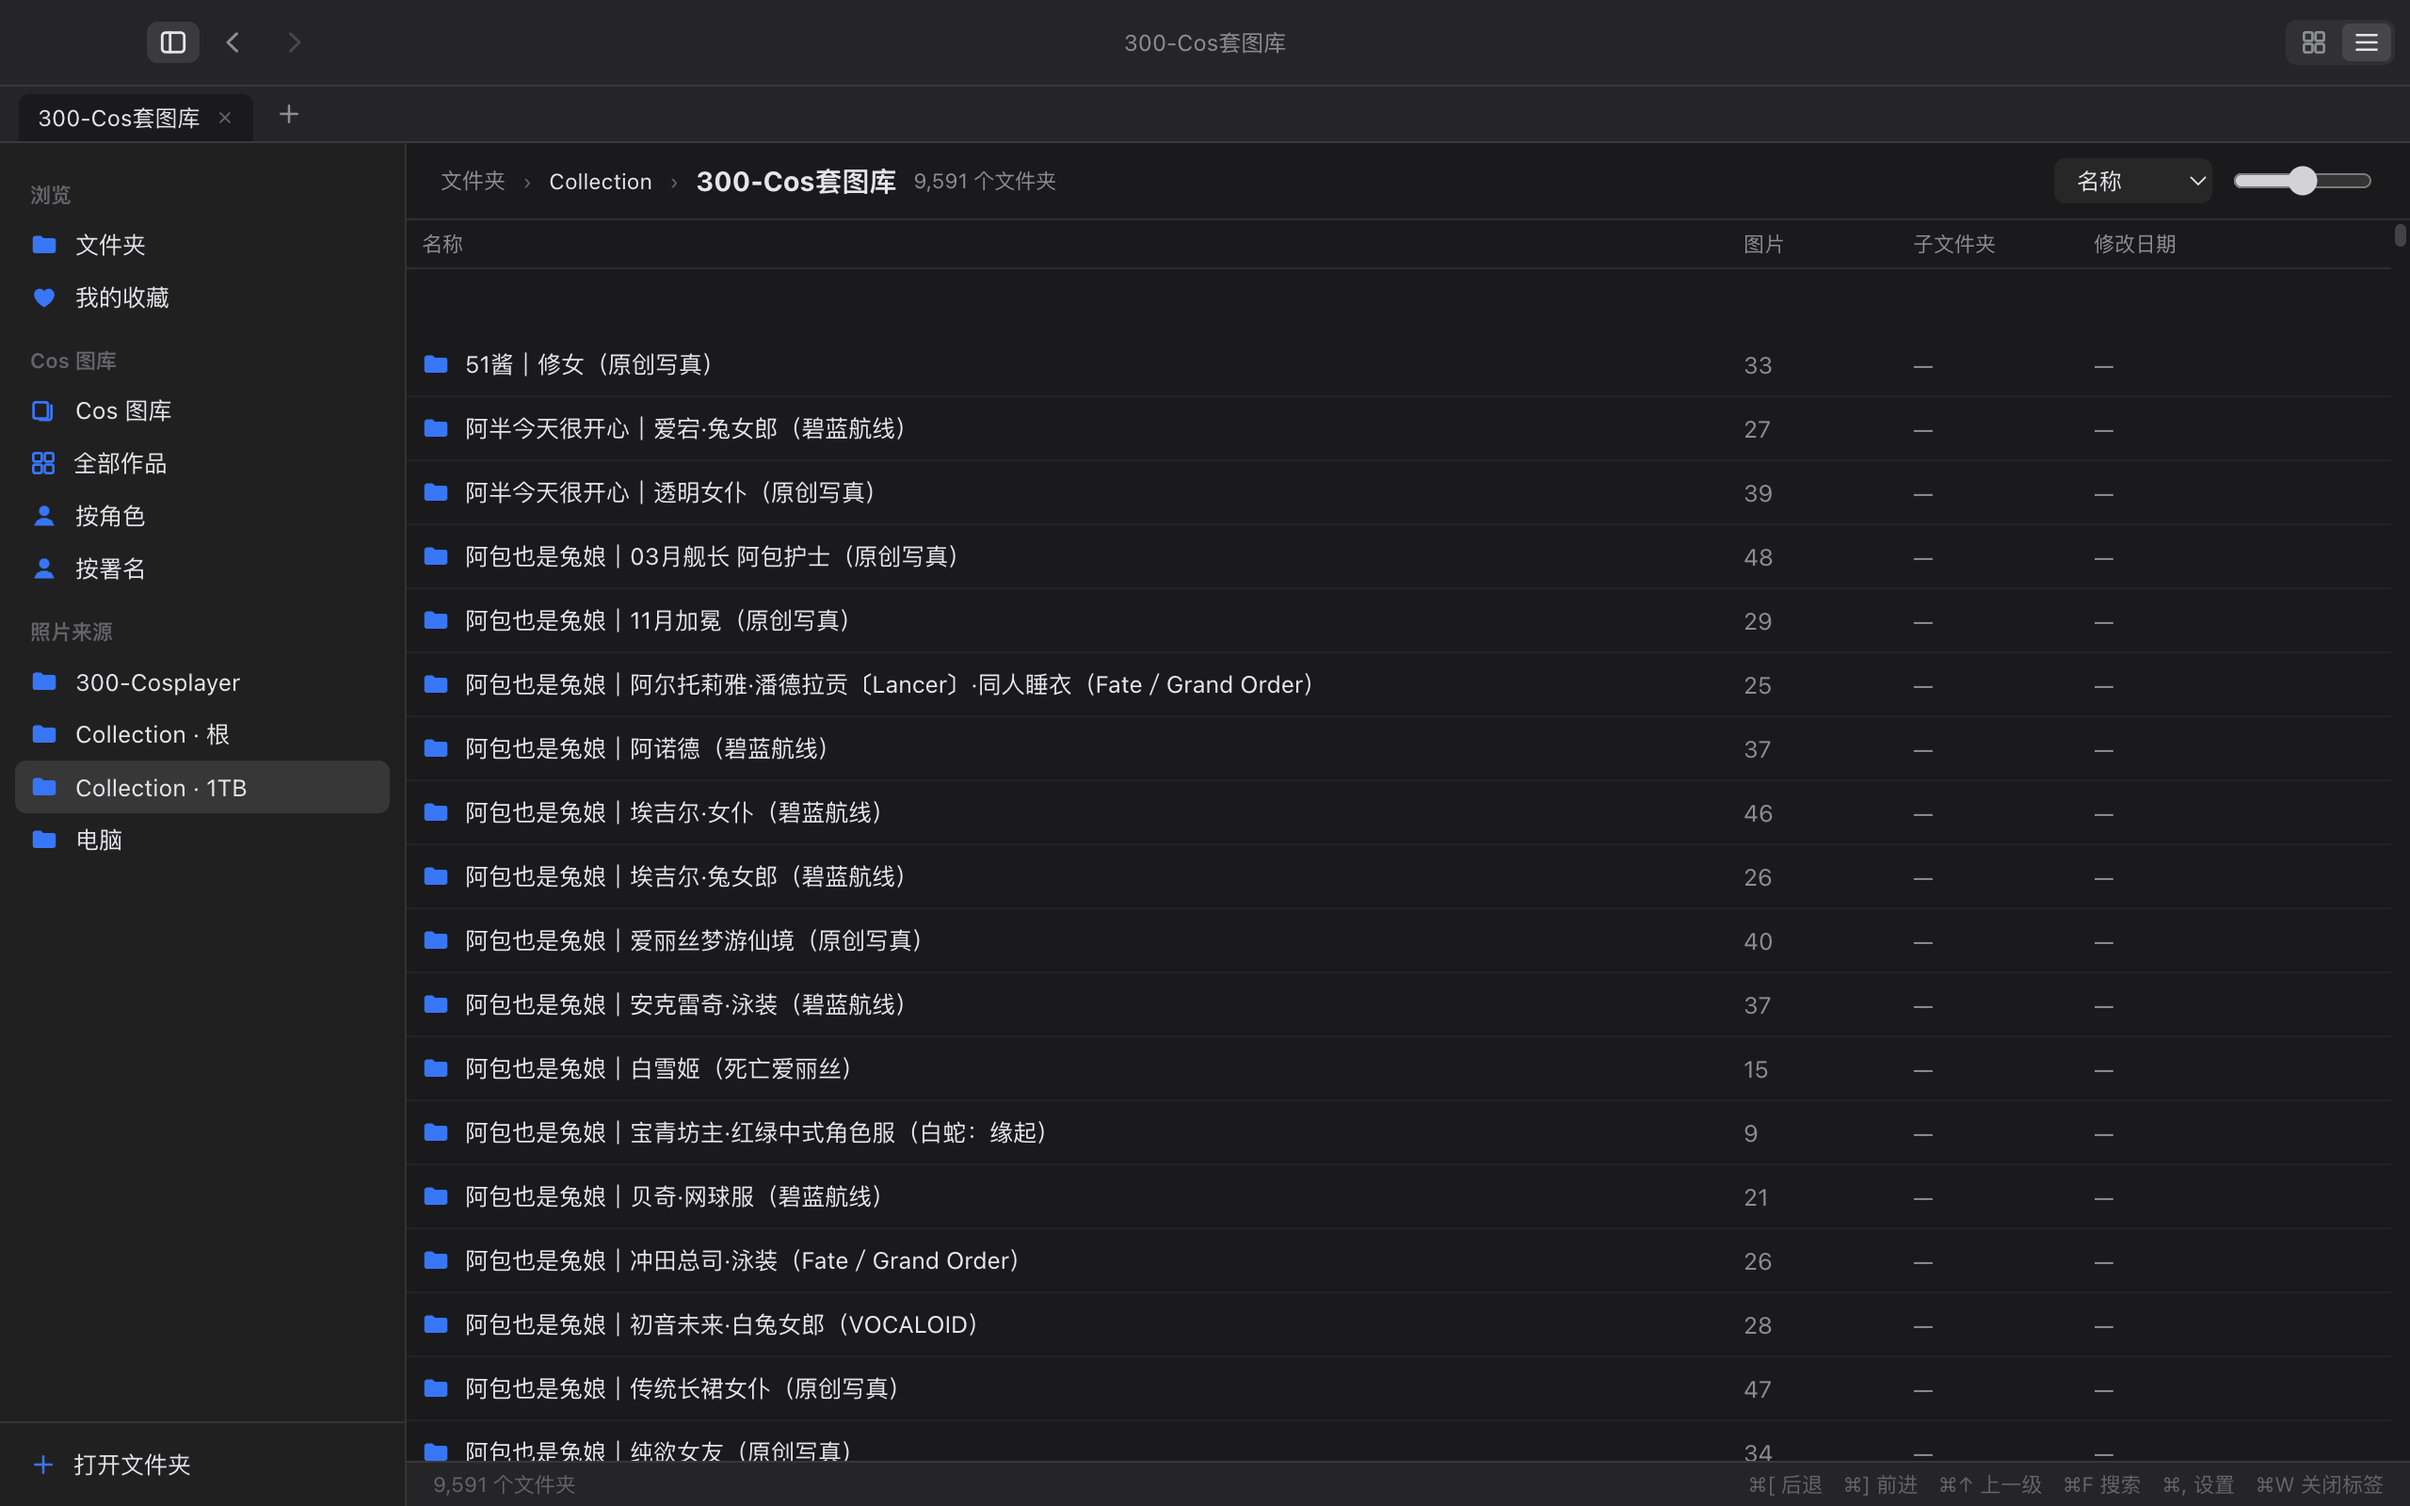
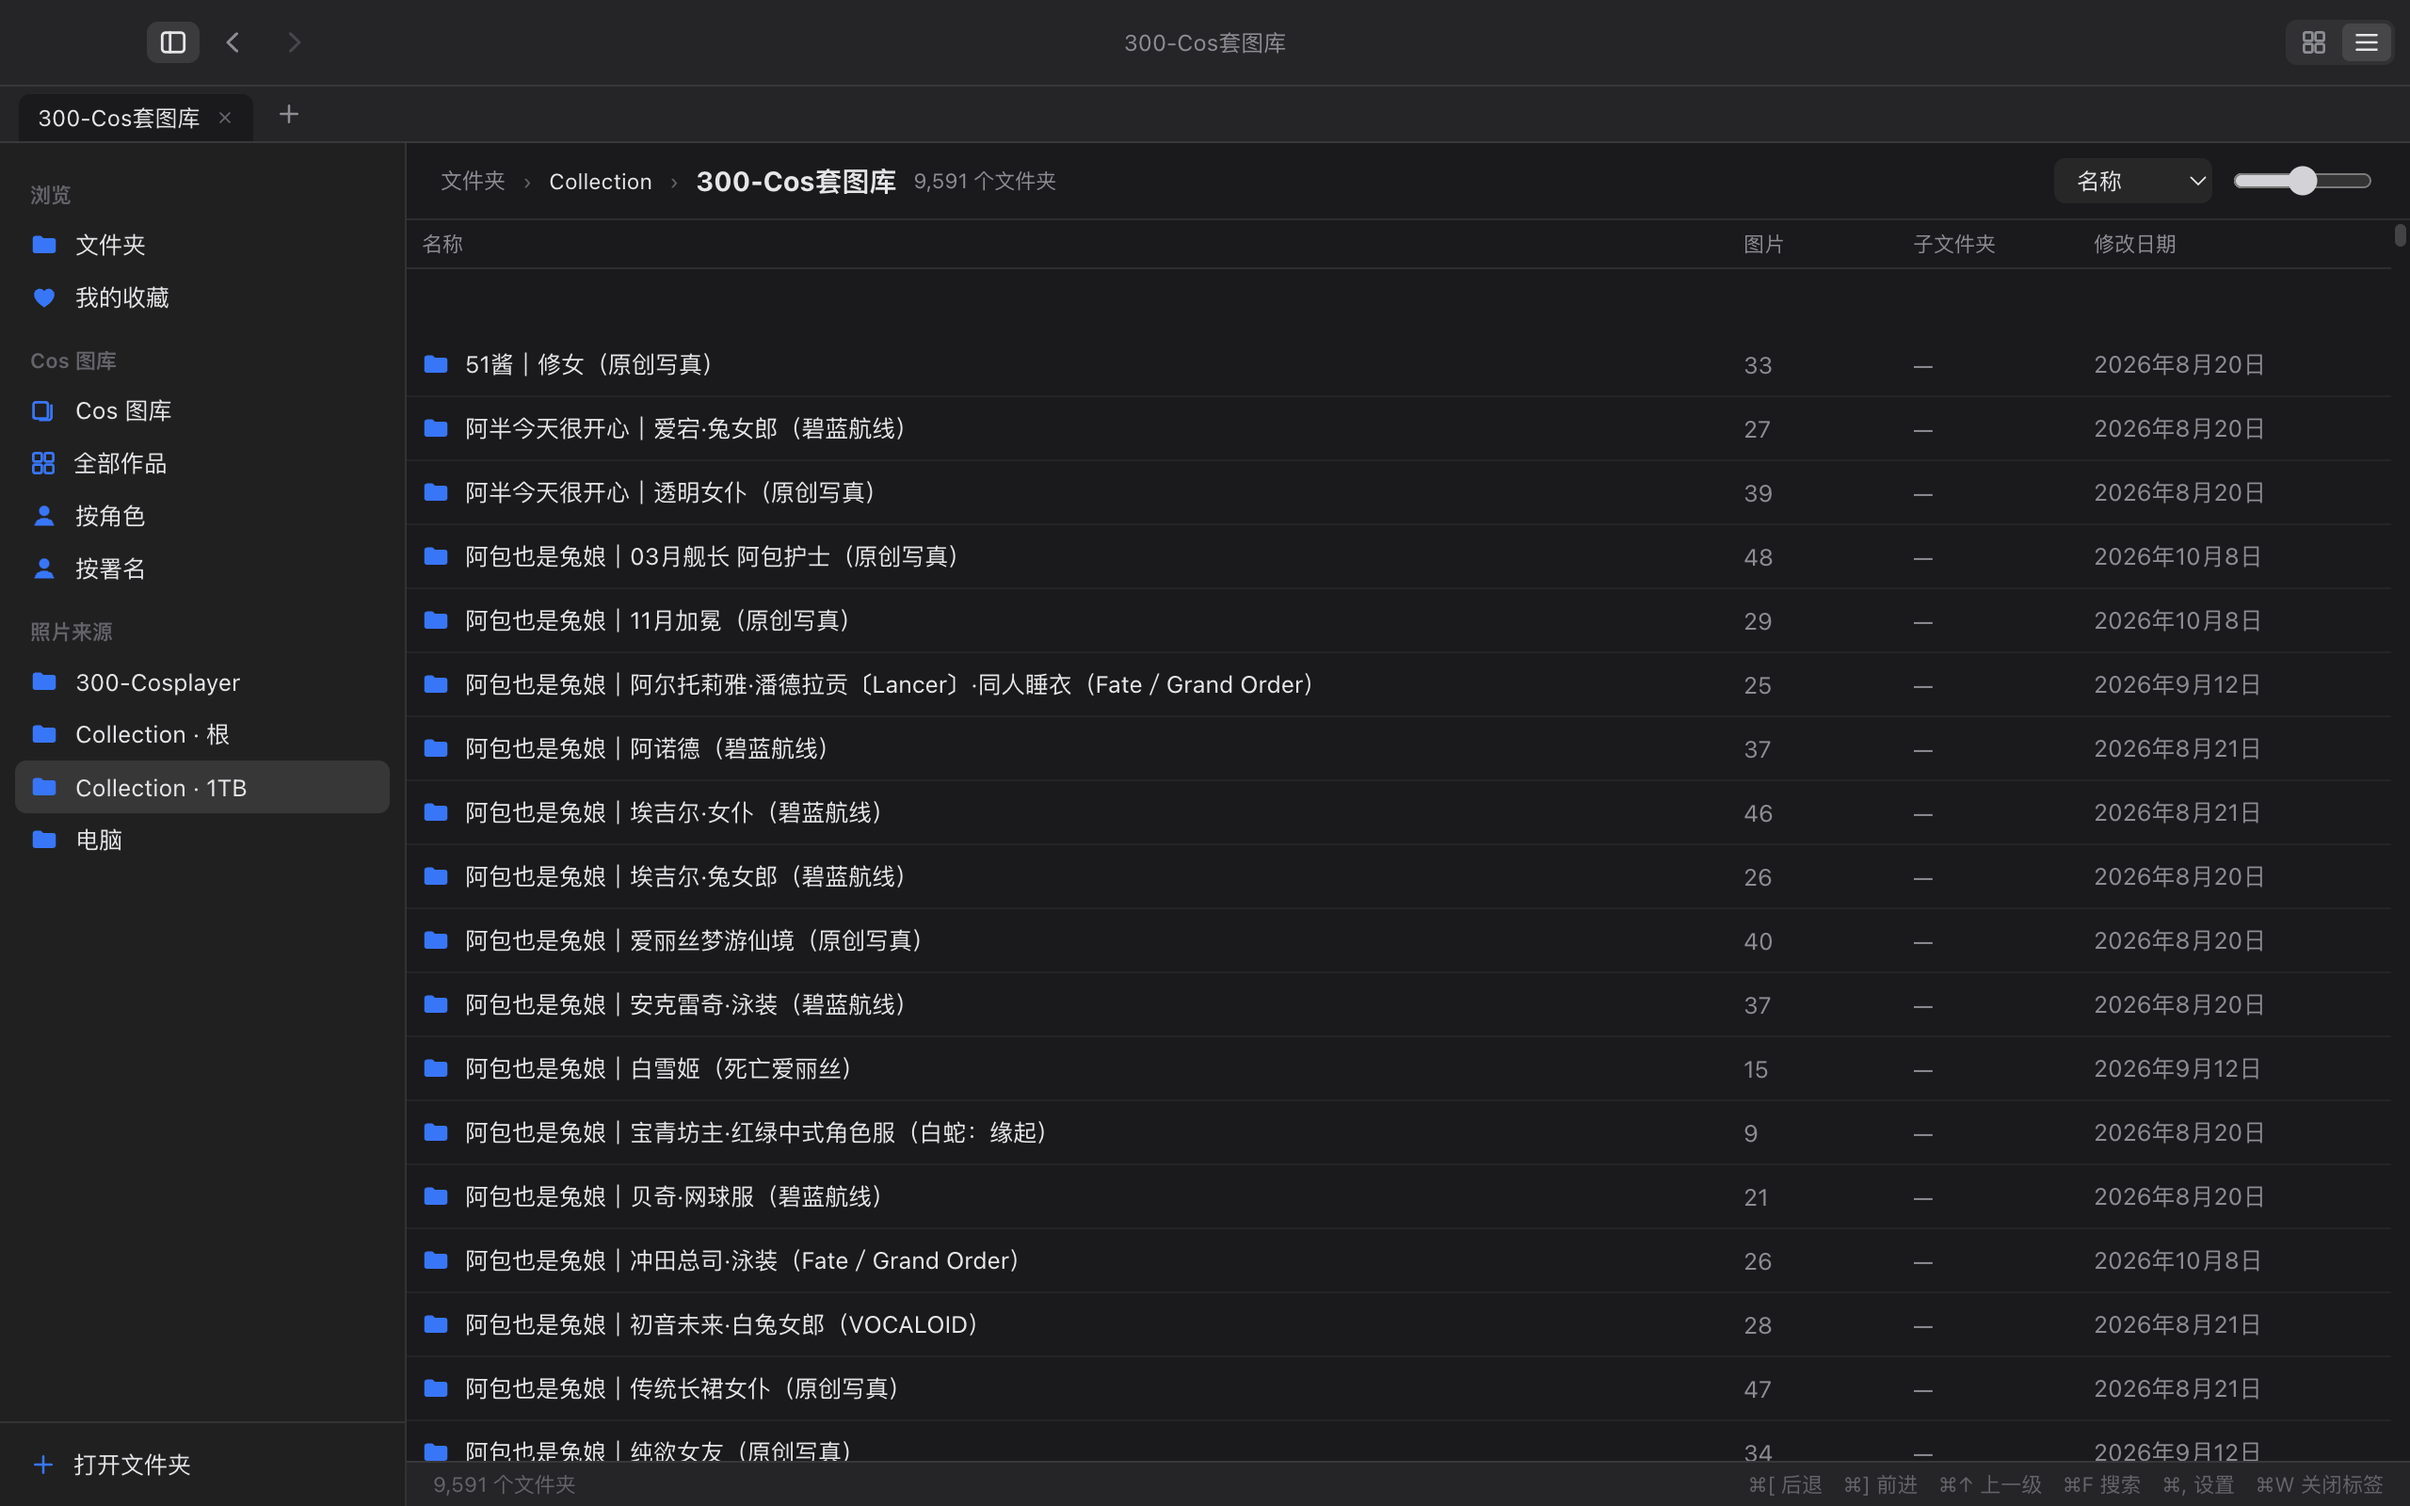
feat(ui): S1 文件夹快照补 mtime，卡片与列表显示日期

diff --git a/src/common/contracts/directory-contract-v1.js b/src/common/contracts/directory-contract-v1.js
@@ -27,7 +27,7 @@ const CHILD_COMPLETENESS_FIELDS = new Set(['directMedia', 'children']);
 const FACT_FIELDS = new Set(['directMediaCount', 'childDirectoryCount']);
 const MEDIA_FIELDS = new Set(['relativePath', 'name', 'size', 'mtimeMs']);
 const CHILD_FIELDS = new Set([
-  'ref', 'name', 'status', 'completeness', 'facts', 'approximate'
+  'ref', 'name', 'status', 'completeness', 'facts', 'approximate', 'mtimeMs'
 ]);
 const APPROXIMATE_FIELDS = new Set([
   'coverSamples', 'hasDescendantMedia', 'observedAt', 'truncated'
@@ -549,6 +549,10 @@ function validateMediaAt(value, path, rootRelativePath, issues) {
     }
   }
 
+  if (hasOwn(record, 'mtimeMs')) {
+    validateRequiredFiniteNumber(record, 'mtimeMs', path, issues);
+  }
+
   let nameValid = false;
   if (!hasOwn(record, 'name')) {
     addIssue(issues, `${path}.name`, 'required', 'name is required');
@@ -587,6 +591,10 @@ function validateChildAt(value, path, rootRef, issues) {
       'invariant',
       'Child ref must be exactly one segment below the snapshot'
     );
+  }
+
+  if (hasOwn(record, 'mtimeMs')) {
+    validateRequiredFiniteNumber(record, 'mtimeMs', path, issues);
   }
 
   let nameValid = false;

diff --git a/src/main/services/DirectorySnapshotService.js b/src/main/services/DirectorySnapshotService.js
@@ -194,7 +194,13 @@ function createDirectorySnapshotService({
       }
 
       if (stats.isDirectory()) {
-        return { kind: 'directory', name, relativePath, absolutePath };
+        return {
+          kind: 'directory',
+          name,
+          relativePath,
+          absolutePath,
+          mtimeMs: Number.isFinite(stats.mtimeMs) ? stats.mtimeMs : null
+        };
       }
       if (!stats.isFile() || !isSupportedMedia(name)) {
         return { kind: 'other' };
@@ -218,6 +224,7 @@ function createDirectorySnapshotService({
           status,
           completeness: unavailableCompleteness,
           facts,
+          ...(Number.isFinite(candidate.mtimeMs) ? { mtimeMs: candidate.mtimeMs } : {}),
           approximate: createApproximate(
             status,
             unavailableCompleteness,
@@ -256,6 +263,7 @@ function createDirectorySnapshotService({
         status: 'ready',
         completeness,
         facts,
+        ...(Number.isFinite(candidate.mtimeMs) ? { mtimeMs: candidate.mtimeMs } : {}),
         approximate: createApproximate('ready', completeness, facts, coverSamples, observedAt)
       };
     }

diff --git a/src/ui/features/folder/GridCard.jsx b/src/ui/features/folder/GridCard.jsx
@@ -32,9 +32,10 @@ function Cover({ item, rootPath }) {
 /** 网格卡片：文件夹与图片共用同一套文字层级。 */
 export default function GridCard({ item, rootPath, width, coverHeight, selected, onClick }) {
   const isFolder = item.kind === 'folder';
-  const meta = isFolder
-    ? (item.childCount > 0 ? `${item.childCount} 个子文件夹 · ${item.imageCount} 张` : `${item.imageCount} 张`)
-    : `${Math.round(item.size / 1024)} KB · ${formatDate(item.mtimeMs)}`;
+  const folderMeta = item.childCount > 0
+    ? `${item.childCount} 个子文件夹 · ${item.imageCount} 张`
+    : `${item.imageCount} 张${item.mtimeMs ? ` · ${formatDate(item.mtimeMs)}` : ''}`;
+  const meta = isFolder ? folderMeta : `${Math.round(item.size / 1024)} KB · ${formatDate(item.mtimeMs)}`;
   return (
     <article
       className={`grid-card${selected ? ' selected' : ''}`}

diff --git a/src/ui/data/directory.js b/src/ui/data/directory.js
@@ -27,6 +27,7 @@ export function toFolderItems(snapshot) {
     status: child.status,
     imageCount: child.facts?.directMediaCount ?? 0,
     childCount: child.facts?.childDirectoryCount ?? 0,
+    mtimeMs: Number.isFinite(child.mtimeMs) ? child.mtimeMs : 0,
     coverSamples: child.approximate?.coverSamples || []
   }));
   const images = snapshot.directMedia.map((media) => ({

diff --git a/.3things/project.md b/.3things/project.md
@@ -203,7 +203,7 @@
 - 2026-10-25：按用户要求对设计稿做分类与连贯性检查，补 6 屏（收藏文件夹/图片/空状态、查看器双页、相簿单选、搜索结果），把五组样张合并为 `design/design-book.html`（39 屏、十五节，含分类建议、连贯性问题表、改动清单与待确认）。分类建议：对象收敛为「文件夹 / 图片」，套图作为带 Cos 元数据的卡片形态，「相簿」退出界面词表。
 - 2026-10-25：待用户确认五条（相簿退出词表、收藏页是否支持列表、相册页头相邻换套位置、设置图库标签只读状态、状态栏是否加 ⌘, 与 ⌘W）后进入计划阶段。
 - 2026-10-25：按用户要求核对 `Collection/兴趣/001-点子图片`、`002-画师`、`003-banana pro` 与 `Collection/下载` 四个真实目录（散乱目录样张的原始依据），用户确认四条决策：①列表视图显示非图片文件（名称/类型/大小/时间），网格给「没有图片」空状态与「用列表查看」；②网格加「裁切 / 完整显示」开关，默认裁切，按文件夹记住；③大平铺目录的日期分组/快速定位 4.0 不做；④每个文件夹分别记住视图与排序，默认开启。据此补 state-61、state-62，设置页加一行。设计稿改为可交互版本：`design-book.html` 内嵌 37 屏实时 HTML（原截图版废弃，截图只作存档），并修正 2.3 旧列表样张（四列 + 单行头部）、删除与新设置内容冲突的旧设置屏。
-- 2026-10-25：4.0 实施 S1 进行中（分支 `codex/ui-rewrite-v4`）。已完成：照片来源页（真实根目录）、文件夹网格与列表（窗口化虚拟滚动，9,591 项可滚）、排序与密度、打开方式（网格单击打开，列表单击选中/双击打开）、前进后退历史、面包屑；视图切换移到工具栏，与设计稿一致。验证：9,591 套真实库网格 20/20 张可见卡片出封面，列表 25 行、四列与「—」占位正常。截图：`design/verify/s1-roots.png`、`s1-300-grid.png`、`s1-300-list.png`。已知缺口：①子目录快照没有修改时间，卡片与列表的日期显示「—」，需要给 V1 子快照加可选 `mtimeMs`；②嵌套容器（只含子目录、无直接图片）没有封面采样，卡片显示文件夹占位，需要后代采样或后续处理。
+- 2026-10-25：4.0 实施 S1 进行中（分支 `codex/ui-rewrite-v4`）。已完成：照片来源页（真实根目录）、文件夹网格与列表（窗口化虚拟滚动，9,591 项可滚）、排序与密度、打开方式（网格单击打开，列表单击选中/双击打开）、前进后退历史、面包屑；视图切换移到工具栏，与设计稿一致。验证：9,591 套真实库网格 20/20 张可见卡片出封面，列表 25 行、四列与「—」占位正常。截图：`design/verify/s1-roots.png`、`s1-300-grid.png`、`s1-300-list.png`。已补：子目录快照新增可选 `mtimeMs`（目录服务 + v1 契约校验允许），卡片与列表显示真实日期；61 个测试文件、795 个用例全过。剩余缺口：嵌套容器（只含子目录、无直接图片）没有封面采样，卡片显示文件夹占位，留到 S3 处理。
 - 2026-10-25：4.0 实施 S0 完成（分支 `codex/ui-rewrite-v4`）。新界面骨架落地：`src/ui/`（design tokens、shell、data、hooks）、webpack 双入口（`PAV_UI=ui`）、`npm run start:ui`。验证：`npm run build:webpack:ui` 成功；真机启动新外壳，侧栏「照片来源」读到 4 个真实来源，工具栏 46px、状态栏快捷键按定稿。截图：`design/verify/s0-shell.png`。旧界面默认入口不变；S0 不安装、不升版本，4.0.0 在 S7。
 - 2026-10-25：用户要求把界面重做之后要做的事单独记下，产出 `backlog.md`（4.1 代码结构五项 + 4.x 功能延后六项，每条带触发条件）。
 - 2026-10-25：用户批准进入计划阶段。产出 `plan-4.0.md`：结论是界面层重写（26 屏纯界面、8 处渲染层行为调整、2 个主进程小接口、9 项不做），分 S0–S7 八片，每片同尺寸截图并排验收，S1/S2/S4/S7 装预览版。待用户批准后从 S0 开始。
